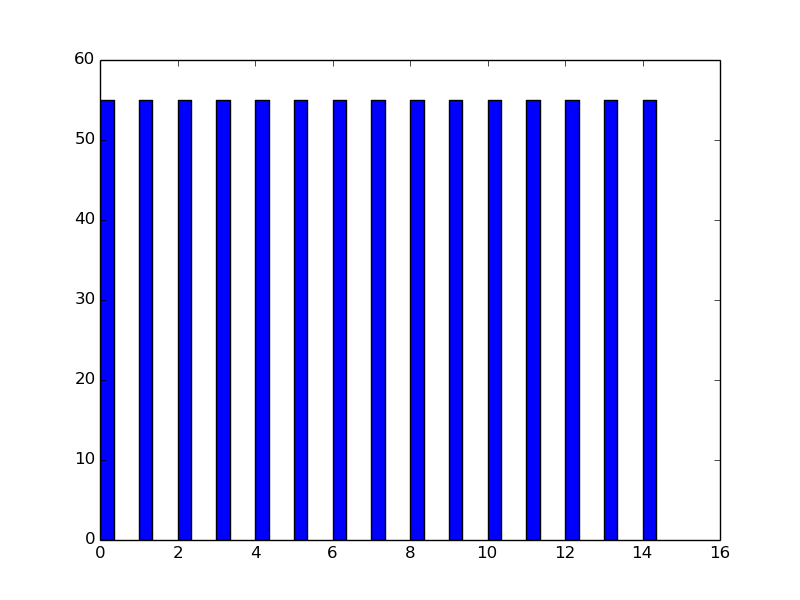
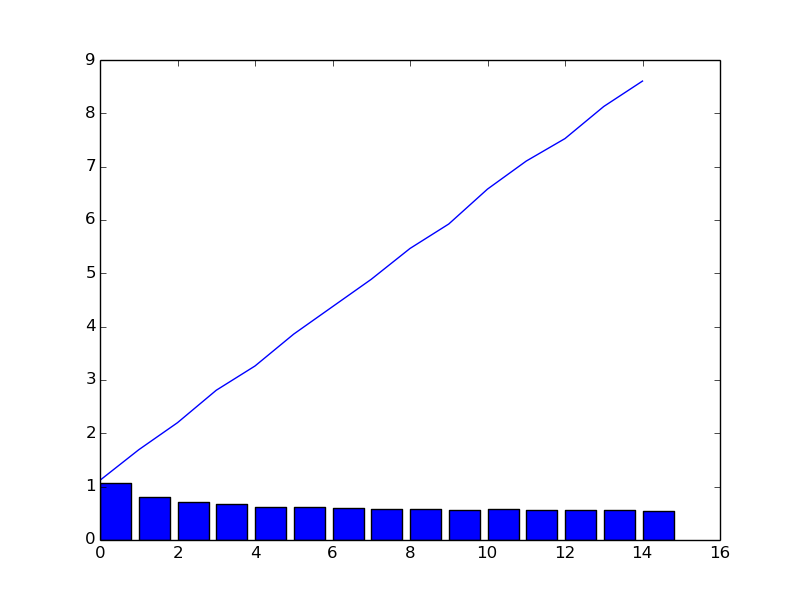
updated script 2

Changed region(s): [[0.0938, 0.15, 0.8438, 0.9], [0.0938, 0.09, 0.125, 0.12]]

diff --git a/g09_lab05/g09_gen_plots.py b/g09_lab05/g09_gen_plots.py
@@ -22,25 +22,33 @@ VEL_AVG=[]
 POS_AVG=[]
 LOOP_AVG=[]
 ERR_AVG=[]
+reruns=10
+i=0
 with open('./data/first.csv', 'r') as csvfile:
-	spamreader = csv.reader(csvfile, delimiter=',')
-	for i in range(0,iter_count):		
-		for s in spamreader:  
-			STEP_SUM= STEP_SUM + float(s[1])
-			COLL_SUM= COLL_SUM + float(s[2])
-			VEL_SUM= VEL_SUM + float(s[3])
-			POS_SUM= POS_SUM + float(s[4])
-			LOOP_SUM=LOOP_SUM + float(s[5])
-			STEP_MAX=max(STEP_MAX,float(s[1]))
-			STEP_MIN=min(STEP_MIN,float(s[1])) 
-			SUM_SQUARES=SUM_SQUARES + float(s[1])*float(s[1])
-		STEP_AVG.append(STEP_SUM/iter_count)
-		COLL_AVG.append(COLL_SUM/iter_count)
-		VEL_AVG.append(VEL_SUM/iter_count)
-		POS_AVG.append(POS_SUM/iter_count)
-		LOOP_AVG.append(LOOP_SUM/iter_count)
-		ERR_AVG.append(SUM_SQUARES/iter_count)
-
+	spamreader = csv.reader(csvfile, delimiter=',')		
+	for s in spamreader:  
+		STEP_SUM= STEP_SUM + float(s[2])
+		COLL_SUM= COLL_SUM + float(s[3])
+		VEL_SUM= VEL_SUM + float(s[4])
+		POS_SUM= POS_SUM + float(s[5])
+		LOOP_SUM=LOOP_SUM + float(s[6])
+		STEP_MAX=max(STEP_MAX,float(s[2]))
+		STEP_MIN=min(STEP_MIN,float(s[2])) 
+		SUM_SQUARES=SUM_SQUARES + float(s[2])*float(s[2])
+		i=i+1
+		if i==reruns:
+			STEP_AVG.append(STEP_SUM/iter_count)
+			COLL_AVG.append(COLL_SUM/iter_count)
+			VEL_AVG.append(VEL_SUM/iter_count)
+			POS_AVG.append(POS_SUM/iter_count)
+			LOOP_AVG.append(LOOP_SUM/iter_count)
+			ERR_AVG.append(SUM_SQUARES/iter_count)
+			i=0
+			STEP_SUM=0
+			COLL_SUM=0		
+			VEL_SUM=0
+			POS_SUM=0
+			LOOP_SUM=0
 # Example data
 #people = ('Tom', 'Dick', 'Harry', 'Slim', 'Jim')
 #y_pos = np.arange(len(people))
@@ -49,13 +57,14 @@ with open('./data/first.csv', 'r') as csvfile:
 
 fig = plt.figure()
 
-width = .35
+#width = .35
 a=[]
 for i in (0,iter_count):
 	a.append(i+1)
 #ind = np.arange(len(OY))
 index = np.arange(iter_count)
-plt.bar(index,STEP_AVG, width)
+plt.bar(index,STEP_AVG)
+plt.plot(index,LOOP_AVG)
 #plt.bar(a,STEP_AVG)
 #plt.xticks(ind + width / 2, OX)
 
